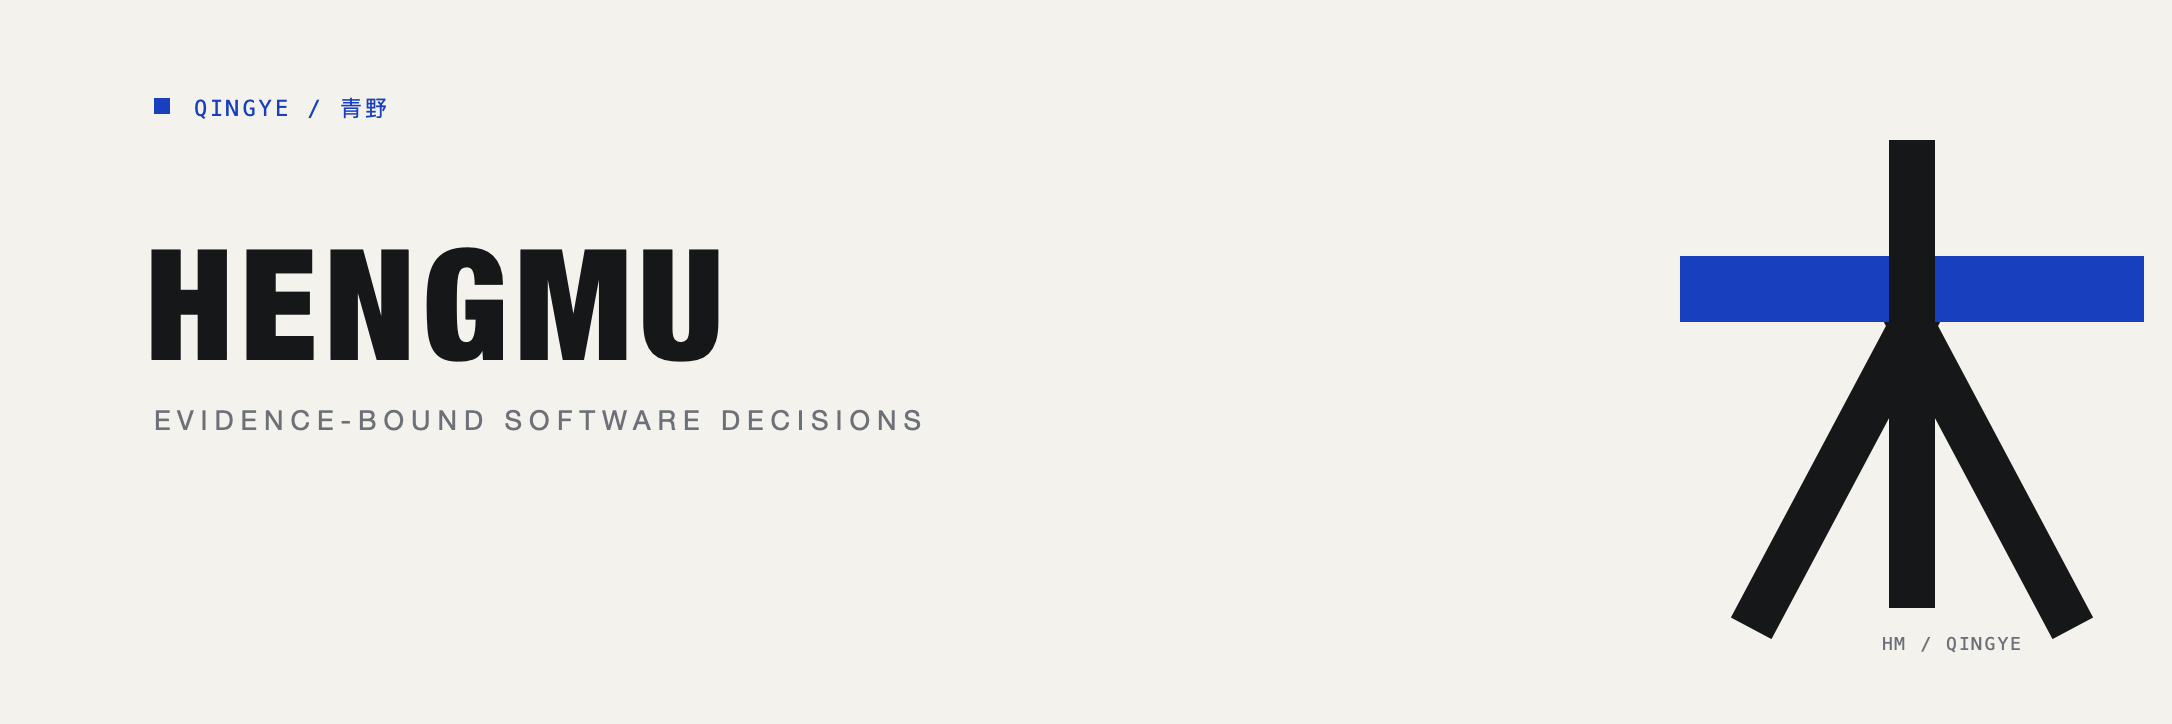
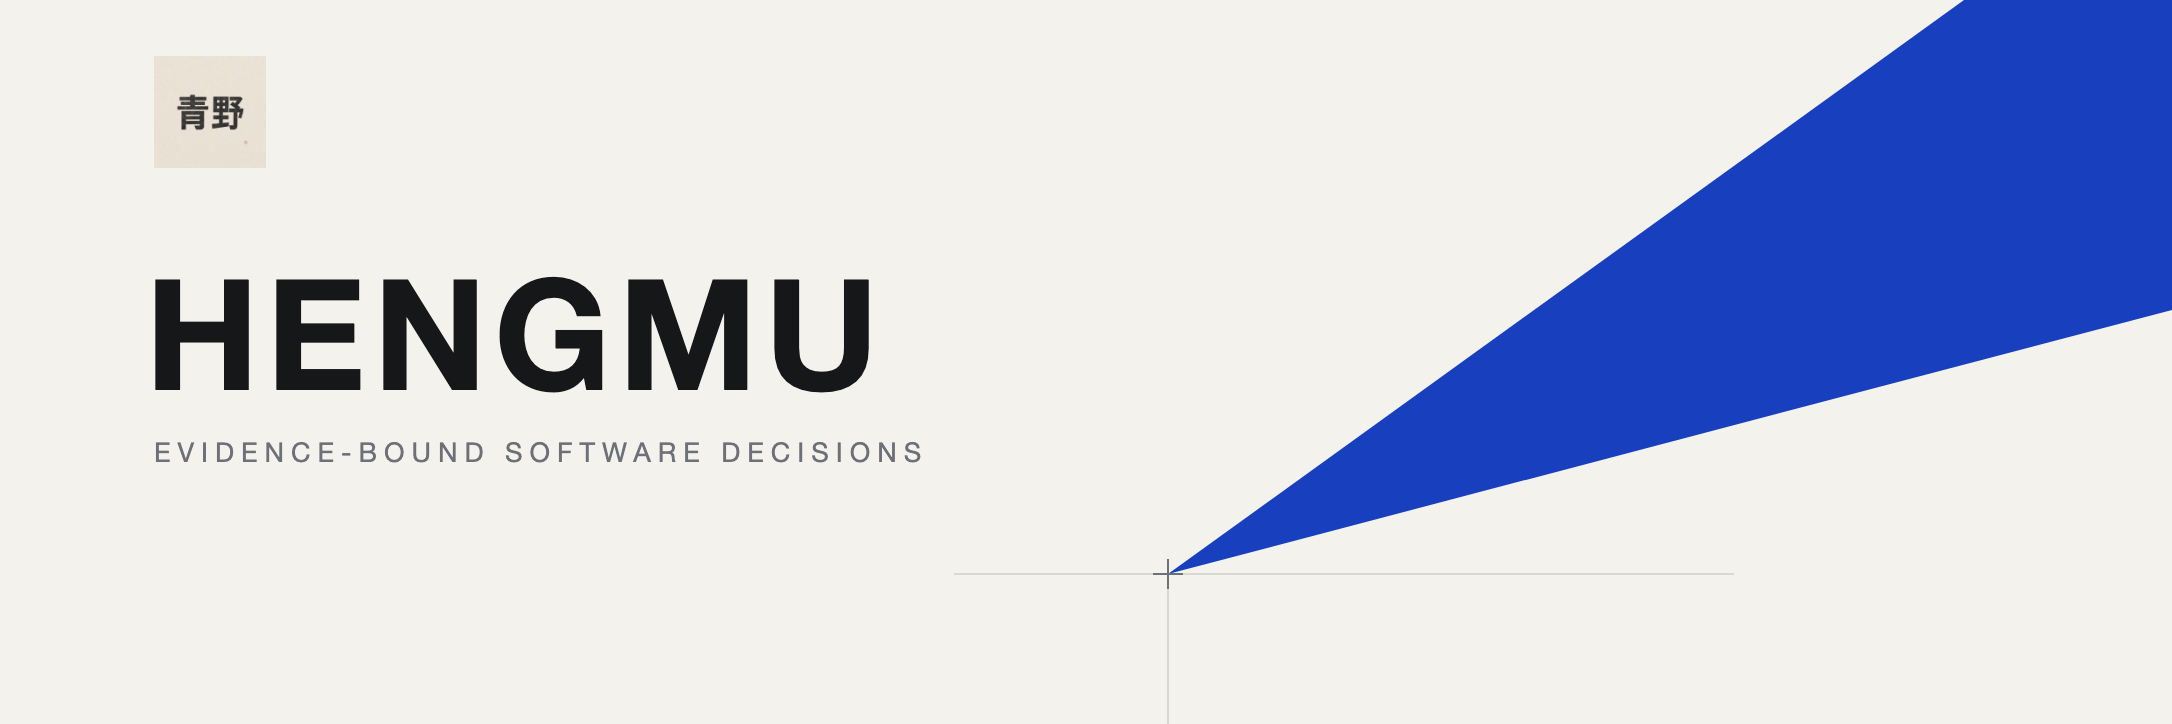
fix: align Hengmu visuals with official brand assets

diff --git a/docs/assets/brand/README.md b/docs/assets/brand/README.md
@@ -1,6 +1,6 @@
 # Hengmu visual assets
 
-Hengmu is a Qingye open-source project for evidence-bound software engineering
+Hengmu is a 青野 open-source project for evidence-bound software engineering
 decisions: system assessment, finding verification, technical solution
 comparison, remediation planning, and deterministic governance. Architecture
 is the connecting system view, not the project's only capability. This
@@ -11,6 +11,7 @@ editions.
 
 | Asset | English | 简体中文 | Formats |
 | --- | --- | --- | --- |
+| 青野 primary logo | `qingye-logo-primary.png` | `qingye-logo-primary.png` | PNG |
 | Project icon | `en/hengmu-icon.*` | `zh-CN/hengmu-icon.*` | SVG, PNG |
 | Project banner | `en/hengmu-banner.*` | `zh-CN/hengmu-banner.*` | SVG, PNG |
 | README editorial figures | `../../../assets/hengmu-readme-illustrations/en/` | `../../../assets/hengmu-readme-illustrations/zh-CN/` | PNG |
@@ -24,22 +25,27 @@ and diagrams localize all visible text.
 
 - Source of truth: `liyanqing90/qingye-brand`
 - Asset baseline: `v1.1 Refined`
+- Logo source: `exports/social/avatar/qingye-avatar-primary-1024.png`
[1 lines of base64/hex data omitted]
 - Brand idea: 理性结构中的持续进化
 - Brand proposition: 在不确定中，持续构建。
-- Qingye ink: `#161719`
-- Qingye blue: `#173FBE`
+- 青野 ink: `#161719`
+- 青野 blue: `#173FBE`
 - Warm white: `#F4F2EC`
 - Neutral gray: `#6D7078`
 - Hairline: `#D9D9D2`
 
-`qingye-wordmark.svg` is the unmodified official wordmark source. Do not
-redraw, rotate, restack, or alter its paths.
+`qingye-wordmark.svg` is the unmodified official wordmark source.
+`qingye-logo-primary.png` is the brand repository's Final 1024 px
+warm-paper, black-wordmark social logo. Both localized banners use that
+published asset; they do not typeset a Latin-script substitute. Do not redraw,
+rotate, restack, or alter the official wordmark.
 
 ## Hengmu mark
 
 The Hengmu icon combines two written ideas in one structural mark:
 
-1. the Qingye-blue horizontal member is the explicit measuring beam, `衡`;
+1. the brand-blue horizontal member is the explicit measuring beam, `衡`;
 2. the ink-black spine and load paths abstract the timber structure, `木`.
 
 The mark is intentionally joinery rather than a literal scale, shield,
@@ -49,15 +55,15 @@ Its visual philosophy is documented in
 [`design-philosophy.md`](design-philosophy.md). The SVG files are the
 editable sources; PNG files are deterministic rendered exports.
 
-## Qingye character
+## 青野 character
 
 `source/qingye-character-reference.png` is the character anchor used in the
-README illustrations. It derives only from the public Qingye avatar:
+README illustrations. It derives only from the public 青野 avatar:
 slightly wavy short hair, a forward-looking posture, a high-collar
-Qingye-blue work jacket, and a restrained path motif. It does not claim to
+brand-blue work jacket, and a restrained path motif. It does not claim to
 reconstruct undisclosed facial identity.
 
-The character is original to Qingye. The illustration workflow and
+The character is original to 青野. The illustration workflow and
 hand-drawn editorial discipline were produced with the Ian Xiaohei
 Illustrations Skill; Xiaohei itself is not used as Hengmu's public character.
 
@@ -71,4 +77,4 @@ Illustrations Skill; Xiaohei itself is not used as Hengmu's public character.
 - Preserve at least one-quarter of the icon width as clear space.
 
 The software is licensed under the repository's MIT License. Use of the
-Qingye name or wordmark to imply endorsement is not granted.
+青野 name or wordmark to imply endorsement is not granted.

diff --git a/docs/assets/brand/design-philosophy.md b/docs/assets/brand/design-philosophy.md
@@ -1,11 +1,29 @@
-# Quiet Measure
+# Measured Horizon
 
-Quiet Measure makes structure visible without illustrating it literally. Form grows from joinery: one decisive horizontal member meets a vertical spine, then releases its load through two diagonal paths. The image should feel discovered inside the material rather than placed on top of it, with every junction refined through painstaking, master-level craft.
+Measured Horizon lets one calibrated plane transform an otherwise quiet
+field. Form is not accumulated; it is resolved through a single decisive
+gesture, a restrained axis, and generous negative space. The composition
+should feel discovered after countless reductions, with every remaining
+element placed through master-level judgment.
 
-Warm white is the primary field, not a backdrop. Ink gives the work gravity; one concentrated blue beam carries identity and direction. No decorative color competes with that beam. The palette is calibrated with the restraint of a technical instrument and the sensitivity of an editorial page.
+Warm white carries light and material presence. Ink supplies gravity, while
+one saturated blue field introduces direction without becoming decoration.
+Color is spatial architecture: flat, exact, and painstakingly calibrated.
+Gradients, effects, and secondary accents are unnecessary when proportion has
+been refined by someone working at the top of the field.
 
-Scale creates tension through contrast. A monumental name or structural mark is balanced by small, exact reference text and hairline measurements. Negative space remains generous and intentional. Every interval should look meticulously adjusted by someone with deep expertise in both typography and engineered form.
+Typography is treated as structure rather than explanation. One name may be
+monumental, one signature quiet, and one line of supporting text barely
+present. Words never compete with the spatial gesture. Tracking, baselines,
+and optical margins require the meticulous attention of a master typesetter.
 
-Typography behaves as material. Chinese serif forms provide cultural weight and a quiet human cadence; neutral sans-serif and monospaced annotations provide precision. Words remain sparse, never filling space for its own sake. Their baselines, tracking, and optical alignment receive the same painstaking attention as the graphic structure.
+Balance is asymmetrical and calm. Visual mass gathers at one edge while a
+directed plane opens the opposite side, creating tension without noise.
+Hairlines and coordinate marks appear only when they sharpen the relationship
+between elements. Every interval should look labored over, tested, and
+adjusted through deep expertise.
 
-Composition stays asymmetrical but resolved. The eye moves from identity to proposition, then along a measured line toward an unfinished edge. This is continuity without motion effects: the visual promise that judgment can be grounded now while the system remains capable of change. The final artifact must feel inevitable, meticulously crafted, and impossible to simplify without losing meaning.
+The finished work must feel inevitable: bold enough to be remembered, quiet
+enough to remain useful, and impossible to simplify without losing its
+identity. Its precision should suggest countless hours of refinement rather
+than the speed of assembly. Craft is visible through restraint.

diff --git a/README.md b/README.md
@@ -2,7 +2,7 @@
   <img
     src="docs/assets/brand/en/hengmu-banner.png"
     width="100%"
-    alt="Hengmu — evidence-bound software engineering decisions, a Qingye open-source project"
+    alt="Hengmu — evidence-bound software engineering decisions, a 青野 open-source project"
   >
 </p>
 
@@ -84,7 +84,7 @@ Hengmu is designed around a longer, evidence-bound engineering decision chain.
 <p align="center">
   <img
     src="assets/hengmu-readme-illustrations/en/01-from-critique-to-closure.png"
-    alt="The Qingye builder measures a real gap with code evidence and pulls a remediation wedge into the load-bearing structure"
+    alt="The 青野 builder measures a real gap with code evidence and pulls a remediation wedge into the load-bearing structure"
     width="100%">
 </p>
 
@@ -230,7 +230,7 @@ Instead, it carries only the context that makes its decisions different:
 <p align="center">
   <img
     src="assets/hengmu-readme-illustrations/en/02-one-method-many-projects.png"
-    alt="One shared method spans different projects while the Qingye builder adjusts for project profiles and real constraints and exposes hidden coupling"
+    alt="One shared method spans different projects while the 青野 builder adjusts for project profiles and real constraints and exposes hidden coupling"
     width="100%">
 </p>
 
@@ -435,18 +435,18 @@ and is rejected by `validate-history-anchors`.
 
 ## Credits and license
 
-Hengmu is a [Qingye](https://github.com/liyanqing90) open-source project:
+Hengmu is a [青野](https://github.com/liyanqing90) open-source project:
 **理性结构中的持续进化，在不确定中，持续构建。**
 
 The README's editorial illustration system was created with
 [Ian Xiaohei Illustrations](https://github.com/helloianneo/ian-xiaohei-illustrations)
-and recast with an original Qingye builder character derived from the public
-Qingye avatar and brand palette. The technical flow is
+and recast with an original 青野 builder character derived from the public
+青野 avatar and brand palette. The technical flow is
 available as Mermaid, Excalidraw, SVG, and PNG so documentation remains
 editable.
 
 PAAD-derived concepts retain attribution in [NOTICE](NOTICE) and
 [third_party/PAAD-MIT.txt](third_party/PAAD-MIT.txt).
 
-The software is licensed under the [MIT License](LICENSE). The Qingye wordmark
+The software is licensed under the [MIT License](LICENSE). The 青野 wordmark
 identifies the originating project and is not a grant to imply endorsement.

diff --git a/assets/hengmu-readme-illustrations/README.md b/assets/hengmu-readme-illustrations/README.md
@@ -13,9 +13,9 @@ Only visible labels change between locales.
 
 They were created on 2026-07-29 with the official
 [Ian Xiaohei Illustrations](https://github.com/helloianneo/ian-xiaohei-illustrations)
-Skill, then recast with an original Qingye builder character. The character
-uses a Qingye-blue high-collar jacket, ink hair and trousers, and the public
-Qingye avatar's forward-looking silhouette. It replaces Xiaohei as the public
+Skill, then recast with an original 青野 builder character. The character
+uses a brand-blue high-collar jacket, ink hair and trousers, and the public
+青野 avatar's forward-looking silhouette. It replaces Xiaohei as the public
 Hengmu character while preserving the Skill's sparse, hand-drawn editorial
 method.
 

diff --git a/CHANGELOG.md b/CHANGELOG.md
@@ -9,7 +9,7 @@ and this project uses [Semantic Versioning](https://semver.org/spec/v2.0.0.html)
 
 ### Added
 
-- Localized Qingye/Hengmu icons and banners, an original Qingye editorial
+- Localized 青野/Hengmu icons and banners, an original 青野 editorial
   character, two paired English/Chinese article illustrations, and paired
   Mermaid/Excalidraw/SVG/PNG governance flows.
 - A full Simplified Chinese README that mirrors the English quick start,
